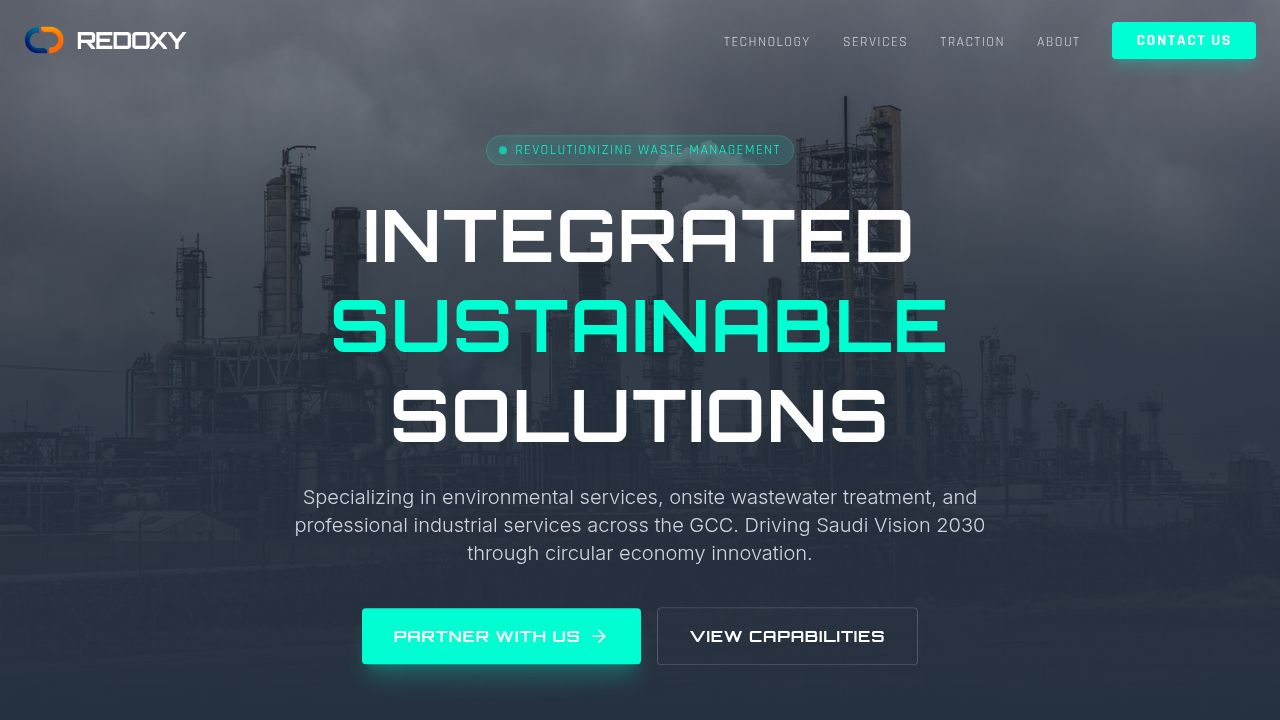
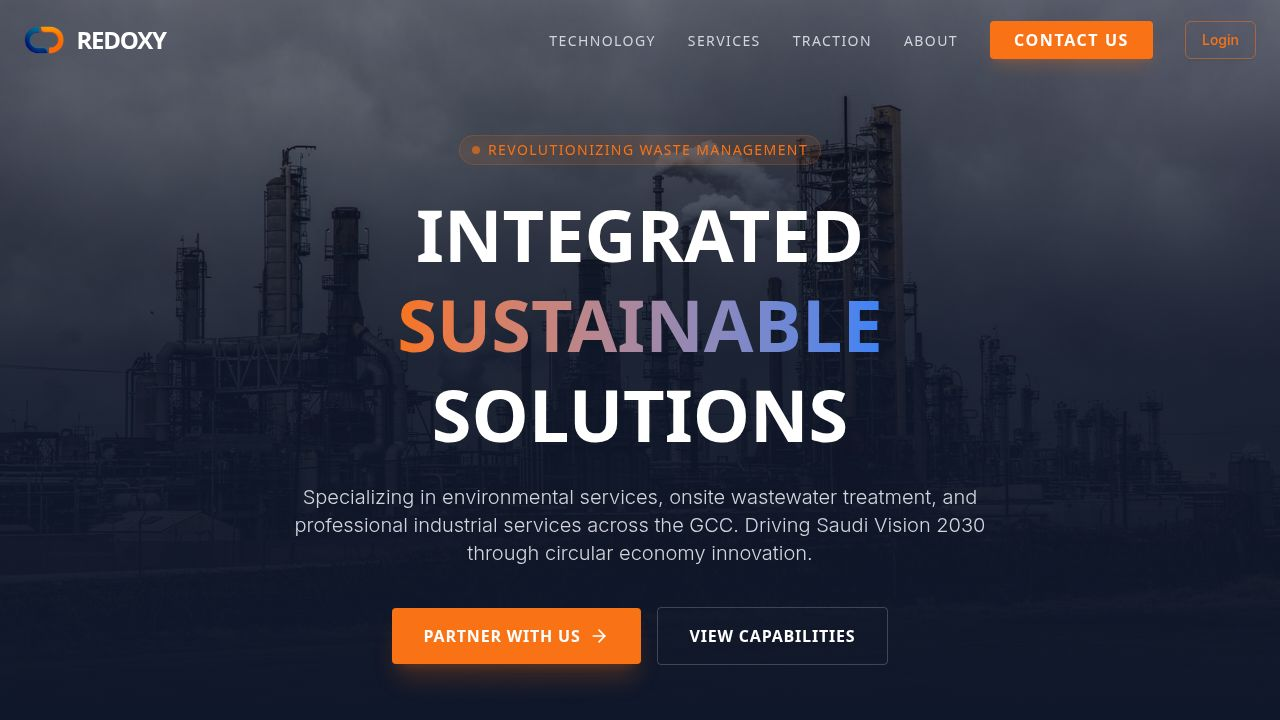
Add simulated Replit login and user profile functionality
Integrates a mock Replit authentication flow into the application, introducing a login button, a user profile dropdown with avatar and username, and a logout option. This is managed by a new `AuthProvider` component and hooks into `App.tsx` and `Navbar.tsx`.

Replit-Commit-Author: Agent
Replit-Commit-Session-Id: b1a05da7-3478-4c39-a367-265c6504f3ee
Replit-Commit-Checkpoint-Type: full_checkpoint
Replit-Commit-Event-Id: d16c9b88-9e33-4c03-b9c0-54582a6101ed
Replit-Commit-Screenshot-Url: https://storage.googleapis.com/screenshot-production-us-central1/6209aea1-5c84-4d9b-9f08-1e9de92e62a3/b1a05da7-3478-4c39-a367-265c6504f3ee/KyPFC82
Replit-Helium-Checkpoint-Created: true

diff --git a/client/src/components/Navbar.tsx b/client/src/components/Navbar.tsx
@@ -1,12 +1,24 @@
 import { useState, useEffect } from "react";
 import { Link } from "wouter";
-import { Menu, X, ChevronRight } from "lucide-react";
+import { Menu, X, ChevronRight, User, LogOut } from "lucide-react";
 import { motion, AnimatePresence } from "framer-motion";
 import logo from "@/assets/redoxy/logo.png";
+import { useAuth } from "@/lib/auth";
+import {
+  DropdownMenu,
+  DropdownMenuContent,
+  DropdownMenuItem,
+  DropdownMenuLabel,
+  DropdownMenuSeparator,
+  DropdownMenuTrigger,
+} from "@/components/ui/dropdown-menu";
+import { Button } from "@/components/ui/button";
+import { Avatar, AvatarFallback, AvatarImage } from "@/components/ui/avatar";
 
 export default function Navbar() {
   const [isOpen, setIsOpen] = useState(false);
   const [scrolled, setScrolled] = useState(false);
+  const { user, login, logout, isLoading } = useAuth();
 
   useEffect(() => {
     const handleScroll = () => {
@@ -56,6 +68,43 @@ export default function Navbar() {
               Contact Us
             </a>
           </Link>
+
+          {user ? (
+            <DropdownMenu>
+              <DropdownMenuTrigger asChild>
+                <Button variant="ghost" className="relative h-10 w-10 rounded-full">
+                  <Avatar className="h-10 w-10 border border-white/20">
+                    <AvatarImage src={user.profileImage} alt={user.username} />
+                    <AvatarFallback>{user.username.charAt(0).toUpperCase()}</AvatarFallback>
+                  </Avatar>
+                </Button>
+              </DropdownMenuTrigger>
+              <DropdownMenuContent className="w-56" align="end" forceMount>
+                <DropdownMenuLabel className="font-normal">
+                  <div className="flex flex-col space-y-1">
+                    <p className="text-sm font-medium leading-none">{user.username}</p>
+                    <p className="text-xs leading-none text-muted-foreground">
+                      user@example.com
+                    </p>
+                  </div>
+                </DropdownMenuLabel>
+                <DropdownMenuSeparator />
+                <DropdownMenuItem onClick={logout} className="cursor-pointer text-red-500 focus:text-red-500">
+                  <LogOut className="mr-2 h-4 w-4" />
+                  <span>Log out</span>
+                </DropdownMenuItem>
+              </DropdownMenuContent>
+            </DropdownMenu>
+          ) : (
+            <Button 
+              variant="outline" 
+              onClick={login} 
+              disabled={isLoading}
+              className="border-primary/50 text-primary hover:bg-primary/10 hover:text-primary"
+            >
+              {isLoading ? "Loading..." : "Login"}
+            </Button>
+          )}
         </div>
 
         {/* Mobile Toggle */}
@@ -88,6 +137,25 @@ export default function Navbar() {
                   </a>
                 </Link>
               ))}
+              
+              <div className="pt-4 border-t border-white/10">
+                {user ? (
+                  <div className="flex items-center gap-3 px-2 py-2">
+                    <Avatar className="h-8 w-8">
+                      <AvatarImage src={user.profileImage} />
+                      <AvatarFallback>{user.username.charAt(0)}</AvatarFallback>
+                    </Avatar>
+                    <span className="text-gray-300">{user.username}</span>
+                    <Button variant="ghost" size="sm" onClick={logout} className="ml-auto text-red-400">
+                      <LogOut className="h-4 w-4" />
+                    </Button>
+                  </div>
+                ) : (
+                  <Button onClick={login} disabled={isLoading} className="w-full">
+                    Login
+                  </Button>
+                )}
+              </div>
             </div>
           </motion.div>
         )}

diff --git a/client/src/lib/auth.tsx b/client/src/lib/auth.tsx
@@ -1,0 +1,63 @@
+import { createContext, useContext, useState, ReactNode, useEffect } from "react";
+
+interface User {
+  id: number;
+  username: string;
+  profileImage: string;
+}
+
+interface AuthContextType {
+  user: User | null;
+  isLoading: boolean;
+  login: () => void;
+  logout: () => void;
+}
+
+const AuthContext = createContext<AuthContextType | undefined>(undefined);
+
+export function AuthProvider({ children }: { children: ReactNode }) {
+  const [user, setUser] = useState<User | null>(null);
+  const [isLoading, setIsLoading] = useState(false);
+
+  // Check for existing session (mock)
+  useEffect(() => {
+    const storedUser = localStorage.getItem("mock_replit_user");
+    if (storedUser) {
+      setUser(JSON.parse(storedUser));
+    }
+  }, []);
+
+  const login = () => {
+    setIsLoading(true);
+    // Simulate API call
+    setTimeout(() => {
+      const mockUser = {
+        id: 1,
+        username: "replit_user",
+        profileImage: "https://ui-avatars.com/api/?name=Replit+User&background=0D8ABC&color=fff",
+      };
+      setUser(mockUser);
+      localStorage.setItem("mock_replit_user", JSON.stringify(mockUser));
+      setIsLoading(false);
+    }, 800);
+  };
+
+  const logout = () => {
+    setUser(null);
+    localStorage.removeItem("mock_replit_user");
+  };
+
+  return (
+    <AuthContext.Provider value={{ user, isLoading, login, logout }}>
+      {children}
+    </AuthContext.Provider>
+  );
+}
+
+export function useAuth() {
+  const context = useContext(AuthContext);
+  if (context === undefined) {
+    throw new Error("useAuth must be used within an AuthProvider");
+  }
+  return context;
+}

diff --git a/client/src/App.tsx b/client/src/App.tsx
@@ -3,6 +3,7 @@ import { queryClient } from "./lib/queryClient";
 import { QueryClientProvider } from "@tanstack/react-query";
 import { Toaster } from "@/components/ui/toaster";
 import { TooltipProvider } from "@/components/ui/tooltip";
+import { AuthProvider } from "@/lib/auth";
 import NotFound from "@/pages/not-found";
 
 // Importing ALL of your pages!
@@ -33,10 +34,12 @@ function Router() {
 function App() {
   return (
     <QueryClientProvider client={queryClient}>
-      <TooltipProvider>
-        <Toaster />
-        <Router />
-      </TooltipProvider>
+      <AuthProvider>
+        <TooltipProvider>
+          <Toaster />
+          <Router />
+        </TooltipProvider>
+      </AuthProvider>
     </QueryClientProvider>
   );
 }
